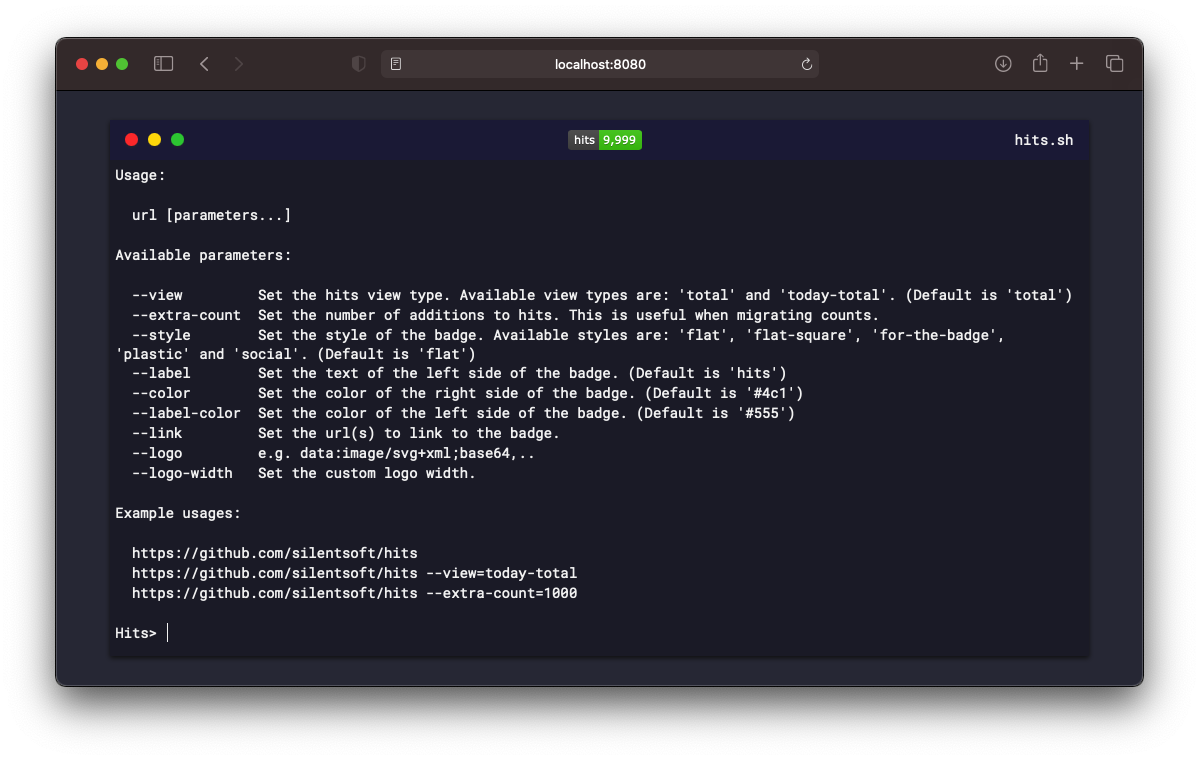
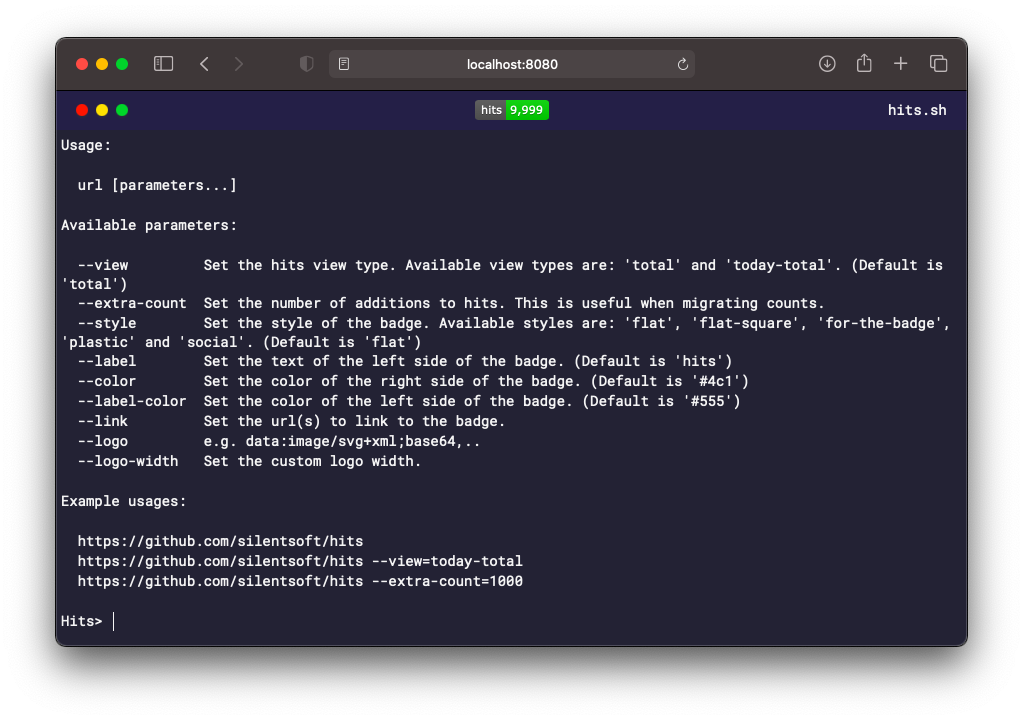
Change window display to full screen

Changed region(s): [[0.0303, 0.0306, 0.9697, 0.9167]]

diff --git a/src/main/react/App.css b/src/main/react/App.css
@@ -20,24 +20,22 @@ body {
   align-items: center;
 }
 #terminal {
-  width: 90vw;
-  max-width: 900px;
-  /*height: 550px;*/
-  height: 70vh;
+  width: 100vw;
+  height: 100vh;
   transition: .2s;
 }
 #window {
   height: 40px;
   display: flex;
   align-items: center;
-  padding: 0 15px;
+  padding: 0 20px;
   cursor: default;
 }
 .btn {
-  margin-right: 10px;
+  margin-right: 8px;
   border: none;
-  height: 13px;
-  width: 13px;
+  height: 12px;
+  width: 12px;
   padding: 0;
   border-radius: 50%;
   box-shadow: 0 2px 2px #33333375;
